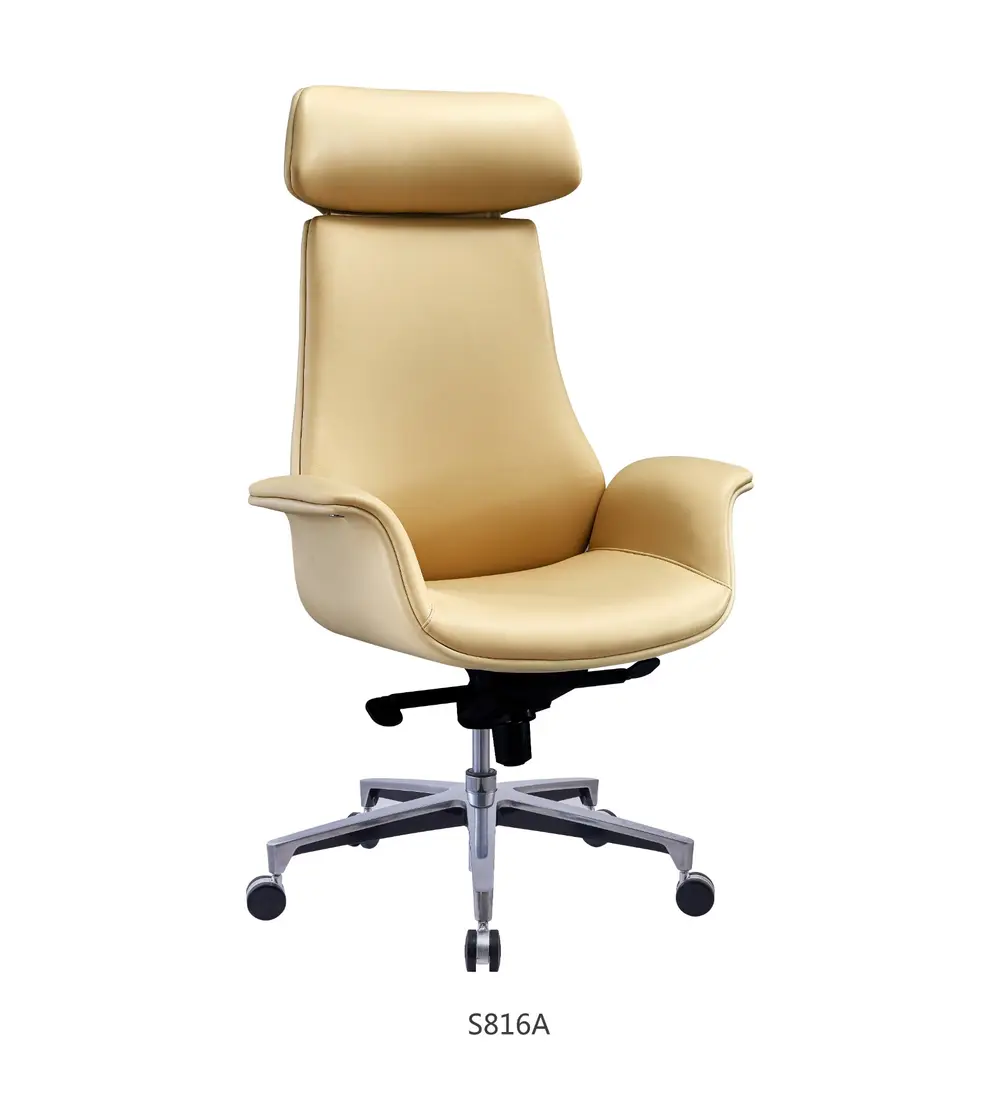
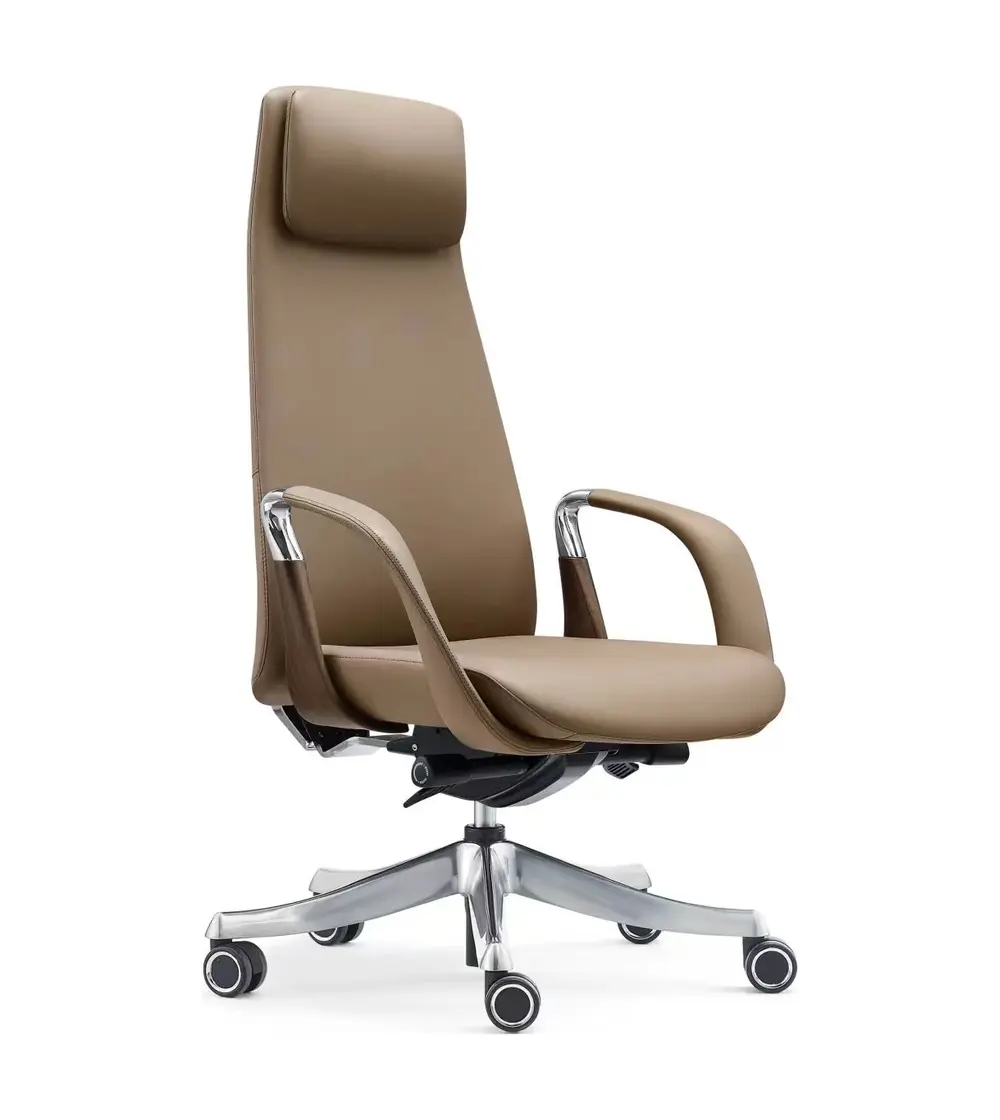
Update MD-2212 leather chair card

Changed region(s): [[0.186, 0.0625, 0.806, 0.9375]]

diff --git a/products/leather-office-chair.html b/products/leather-office-chair.html
@@ -33,7 +33,7 @@
         {"@type":"ListItem","position":6,"name":"GF-A211 High-Back Leather Office Chair","url":"https://huangsifurniture.com/products/gf-a211-high-back-leather-office-chair"},
         {"@type":"ListItem","position":7,"name":"GF-A201 Executive Leather Office Chair","url":"https://huangsifurniture.com/products/gf-a201-microfiber-leather-executive-office-chair"},
         {"@type":"ListItem","position":8,"name":"GF-HD01 Butterfly-Back Leather Office Chair","url":"https://huangsifurniture.com/products/gf-hd01-natural-grain-leather-executive-office-chair"},
-        {"@type":"ListItem","position":9,"name":"M-011A Executive Leather Office Chair"},
+        {"@type":"ListItem","position":9,"name":"MD-2212 Executive Leather Office Chair"},
         {"@type":"ListItem","position":10,"name":"MD2213A Executive Leather Office Chair"},
         {"@type":"ListItem","position":11,"name":"MD2303A Executive Leather Office Chair"},
         {"@type":"ListItem","position":12,"name":"MD2505A Executive Leather Office Chair"},
@@ -134,9 +134,9 @@
             <div class="mesh-chair-card__media"><span class="mesh-chair-card__tag">CUSTOMIZE</span><img src="/assets/images/leather-chair-collection/a-butterfly-red.webp" width="1000" height="1120" alt="GF-HD01 burgundy leather office chair with split headrest" loading="lazy"></div>
             <div class="mesh-chair-card__body"><span class="mesh-chair-card__meta">HUANGSI · GF-HD01</span><h2>GF-HD01 Butterfly-Back Leather Office Chair</h2><span class="mesh-chair-card__link">Request details <span>→</span></span></div>
           </a>
-          <a class="mesh-chair-card mesh-chair-card--link" data-name="M-011A" data-order="9" href="/contact?product=M-011A%20Executive%20Leather%20Office%20Chair" aria-label="Request M-011A leather office chair details">
-            <div class="mesh-chair-card__media"><span class="mesh-chair-card__tag">CUSTOMIZE</span><img src="/assets/images/leather-chair-collection/m-011a.webp" width="1000" height="1120" alt="M-011A beige executive leather office chair" loading="lazy"></div>
-            <div class="mesh-chair-card__body"><span class="mesh-chair-card__meta">HUANGSI · M-011A</span><h2>M-011A Executive Leather Office Chair</h2><span class="mesh-chair-card__link">Request details <span>→</span></span></div>
+          <a class="mesh-chair-card mesh-chair-card--link" data-name="MD-2212" data-order="9" href="/contact?product=MD-2212%20Executive%20Leather%20Office%20Chair" aria-label="Request MD-2212 leather office chair details">
+            <div class="mesh-chair-card__media"><span class="mesh-chair-card__tag">CUSTOMIZE</span><img src="/assets/images/leather-chair-collection/m-011a.webp" width="1000" height="1120" alt="MD-2212 brown high-back executive leather office chair" loading="lazy"></div>
+            <div class="mesh-chair-card__body"><span class="mesh-chair-card__meta">HUANGSI · MD-2212</span><h2>MD-2212 Executive Leather Office Chair</h2><span class="mesh-chair-card__link">Request details <span>→</span></span></div>
           </a>
           <a class="mesh-chair-card mesh-chair-card--link" data-name="MD2213A" data-order="10" href="/contact?product=MD2213A%20Executive%20Leather%20Office%20Chair" aria-label="Request MD2213A leather office chair details">
             <div class="mesh-chair-card__media"><span class="mesh-chair-card__tag">CUSTOMIZE</span><img src="/assets/images/leather-chair-collection/md2213a.webp" width="1000" height="1120" alt="MD2213A tan executive leather office chair" loading="lazy"></div>
